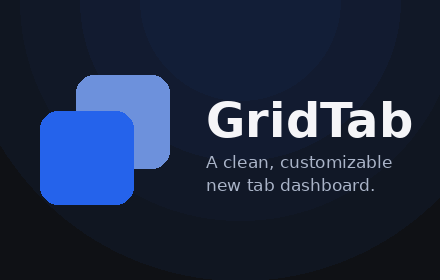
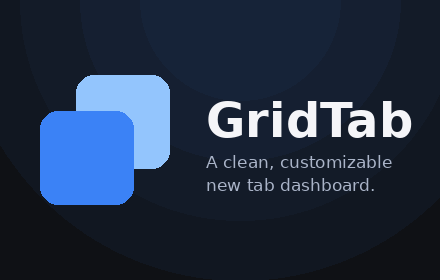
1.2.1: Remove engine picker, use chrome.search API for compliance with Red Argon policy

Changed region(s): [[0.0886, 0.2571, 0.3841, 0.7429]]

diff --git a/newtab.js b/newtab.js
@@ -11,6 +11,9 @@
   const SETTINGS_KEY = 'settings';
 
   // Default settings. Each maps to one or more CSS variables on :root.
+  // Default settings. Search uses the user's Chrome default search
+  // engine via the chrome.search API — there is no engine choice
+  // persisted in our settings, by design.
   const DEFAULT_SETTINGS = {
     tileSize: 'md',     // sm | md | lg
     gap:      'normal', // tight | normal | relaxed
@@ -22,7 +25,6 @@
     // reintroduce a paywall later by flipping this to false and wiring
     // up real billing. For v1 launch: everyone gets everything.
     isPro: true,
-    searchEngine: 'google', // see SEARCH_ENGINES below
   };
 
   /**
@@ -141,65 +143,6 @@
     { id: 'lightPurple',name: 'Light Purple',bg: '#c4b5fd', hover: '#b3a0fc' },
   ];
 
-  /**
-   * Search engine registry. Each engine has a URL template with {q} as
-   * the placeholder for the URL-encoded query, plus an inline SVG icon
-   * (so we don't depend on external favicon services for the chrome).
-   *
-   * Icons are simplified single-color or two-color marks based on each
-   * brand's identity guidelines. They render at ~20px in the UI; subtle
-   * detail at that size is wasted, so simpler is better.
-   */
-  const SEARCH_ENGINES = [
-    {
-      id: 'google', name: 'Google',
-      url: 'https://www.google.com/search?q={q}',
-      // Google's classic 4-color "G" mark.
-      icon: `<svg viewBox="0 0 24 24" xmlns="http://www.w3.org/2000/svg"><path fill="#4285F4" d="M22.56 12.25c0-.78-.07-1.53-.2-2.25H12v4.26h5.92c-.26 1.37-1.04 2.53-2.21 3.31v2.77h3.57c2.08-1.92 3.28-4.74 3.28-8.09z"/><path fill="#34A853" d="M12 23c2.97 0 5.46-.98 7.28-2.66l-3.57-2.77c-.98.66-2.23 1.06-3.71 1.06-2.86 0-5.29-1.93-6.16-4.53H2.18v2.84C3.99 20.53 7.7 23 12 23z"/><path fill="#FBBC05" d="M5.84 14.09c-.22-.66-.35-1.36-.35-2.09s.13-1.43.35-2.09V7.07H2.18C1.43 8.55 1 10.22 1 12s.43 3.45 1.18 4.93l2.85-2.22.81-.62z"/><path fill="#EA4335" d="M12 5.38c1.62 0 3.06.56 4.21 1.64l3.15-3.15C17.45 2.09 14.97 1 12 1 7.7 1 3.99 3.47 2.18 7.07l3.66 2.84c.87-2.6 3.3-4.53 6.16-4.53z"/></svg>`,
-    },
-    {
-      id: 'bing', name: 'Bing',
-      url: 'https://www.bing.com/search?q={q}',
-      // Microsoft Bing's stylized B mark.
-      icon: `<svg viewBox="0 0 24 24" xmlns="http://www.w3.org/2000/svg"><defs><linearGradient id="bg" x1="0" y1="0" x2="1" y2="1"><stop offset="0" stop-color="#37C2B1"/><stop offset=".5" stop-color="#0EA5C7"/><stop offset="1" stop-color="#0078D4"/></linearGradient></defs><path fill="url(#bg)" d="M5 2v15.5l4.5-1.7 4.7 2.4L9 21V19l-4-1.5V2zm0 0 4.5 1.7v9l4.7 1.7 4-1.7L5 22V11.5l-4.5-1.7z" transform="translate(2 0)"/></svg>`,
-    },
-    {
-      id: 'duckduckgo', name: 'DuckDuckGo',
-      url: 'https://duckduckgo.com/?q={q}',
-      // DDG's orange duck mark — simplified.
-      icon: `<svg viewBox="0 0 24 24" xmlns="http://www.w3.org/2000/svg"><circle cx="12" cy="12" r="11" fill="#DE5833"/><path fill="#fff" d="M14.5 6.8c-1 .5-1.5 1.2-1.5 2.5 0 2 2 2.5 2 4.5 0 2.5-2 3-2 6h-3l.5-3.5c-1.5-.5-3-1.5-3.5-3.5 0-1 .5-1.5 1-1.5l-1-1c0-1 1.5-1.5 3-1.5 2.5 0 3.5.5 4.5-2z"/><circle cx="14.5" cy="9.8" r="1.1" fill="#fff"/><circle cx="14.5" cy="9.8" r=".5" fill="#000"/></svg>`,
-    },
-    {
-      id: 'brave', name: 'Brave Search',
-      url: 'https://search.brave.com/search?q={q}',
-      // Brave's lion-shield silhouette — simplified to the orange shield form.
-      icon: `<svg viewBox="0 0 24 24" xmlns="http://www.w3.org/2000/svg"><path fill="#FB542B" d="M21 6.5 19.5 4l-3 .5L12 2 7.5 4.5 4.5 4 3 6.5l1.5 3-.5 4.5 1.5 5L12 22l6.5-3 1.5-5-.5-4.5z"/><path fill="#fff" d="M12 7.5 9 9.5l1.5 3-2 2 3.5 3.5 3.5-3.5-2-2 1.5-3z" opacity=".9"/></svg>`,
-    },
-    {
-      id: 'ecosia', name: 'Ecosia',
-      url: 'https://www.ecosia.org/search?q={q}',
-      // Ecosia's leaf-circle mark.
-      icon: `<svg viewBox="0 0 24 24" xmlns="http://www.w3.org/2000/svg"><circle cx="12" cy="12" r="11" fill="#36A86E"/><path fill="#fff" d="M6.5 14.5c2 2 6 2 9 0-1-.5-2-.5-3.5-.5l-1.5-1.5c0-1.5.5-2.5 1.5-3.5 1.5 0 2.5 0 3.5-.5-3-2-7-2-9 0-1.5 2-1.5 4 0 6z"/></svg>`,
-    },
-    {
-      id: 'kagi', name: 'Kagi',
-      url: 'https://kagi.com/search?q={q}',
-      // Kagi's yellow circle with stylized K.
-      icon: `<svg viewBox="0 0 24 24" xmlns="http://www.w3.org/2000/svg"><circle cx="12" cy="12" r="11" fill="#FFB319"/><path fill="#1a1a1a" d="M8 7h2v4l4-4h2.5l-4.5 4.5L17 17h-2.5L11 13v4H8z"/></svg>`,
-    },
-    {
-      id: 'perplexity', name: 'Perplexity',
-      url: 'https://www.perplexity.ai/?q={q}',
-      // Perplexity's stylized "?" / network mark.
-      icon: `<svg viewBox="0 0 24 24" xmlns="http://www.w3.org/2000/svg"><rect width="24" height="24" rx="5" fill="#1F1F1F"/><path fill="#20B8A6" d="M12 4 4 9v6l8 5 8-5V9zm0 2 5 3-5 3-5-3zm-6 5 5 3v5l-5-3zm12 0v5l-5 3v-5z"/></svg>`,
-    },
-    {
-      id: 'youtube', name: 'YouTube',
-      url: 'https://www.youtube.com/results?search_query={q}',
-      // YouTube's red "play button" rounded rectangle.
-      icon: `<svg viewBox="0 0 24 24" xmlns="http://www.w3.org/2000/svg"><path fill="#FF0000" d="M23.5 6.2c-.3-1-1-1.8-2-2.1C19.6 3.5 12 3.5 12 3.5s-7.6 0-9.5.6c-1 .3-1.7 1.1-2 2.1C0 8.1 0 12 0 12s0 3.9.5 5.8c.3 1 1 1.8 2 2.1 1.9.6 9.5.6 9.5.6s7.6 0 9.5-.6c1-.3 1.7-1.1 2-2.1.5-1.9.5-5.8.5-5.8s0-3.9-.5-5.8z"/><path fill="#fff" d="M9.6 15.6V8.4l6.3 3.6z"/></svg>`,
-    },
-  ];
 
   // Maps each setting value to the CSS variable values it should produce.
   // Keeping this here (not in CSS) lets us validate stored values and fall
@@ -248,12 +191,9 @@
   const colorMenuGrid  = document.getElementById('colorMenuGrid');
   // Theme picker.
   const themeGrid      = document.getElementById('themeGrid');
-  // Search bar + engine popover.
+  // Search bar.
   const searchForm     = document.getElementById('searchForm');
   const searchInput    = document.getElementById('searchInput');
-  const engineBtn      = document.getElementById('engineBtn');
-  const engineIcon     = document.getElementById('engineIcon');
-  const enginePopover  = document.getElementById('enginePopover');
   // Custom icon uploader (in the favorite edit modal).
   const iconPreview    = document.getElementById('iconPreview');
   const iconFileInput  = document.getElementById('iconFileInput');
@@ -600,82 +540,29 @@
   // Search bar
   // -----------------------------------------------------------------------
 
-  function getCurrentEngine() {
-    return SEARCH_ENGINES.find((e) => e.id === settings.searchEngine)
-        || SEARCH_ENGINES[0];
-  }
-
-  /** Render the engine icon inside the search-bar's left button. */
-  function renderEngineButton() {
-    const engine = getCurrentEngine();
-    engineIcon.innerHTML = engine.icon;
-    engineBtn.title = `Search with ${engine.name}`;
-    searchInput.placeholder = `Search ${engine.name}…`;
-  }
-
-  /** Render the engine popover list. */
-  function renderEnginePopover() {
-    enginePopover.innerHTML = '';
-    for (const engine of SEARCH_ENGINES) {
-      const opt = document.createElement('button');
-      opt.type = 'button';
-      opt.className = 'engine-option';
-      opt.setAttribute('role', 'menuitemradio');
-      opt.setAttribute('aria-checked',
-        settings.searchEngine === engine.id ? 'true' : 'false');
-
-      const iconWrap = document.createElement('span');
-      iconWrap.className = 'engine-option-icon';
-      iconWrap.innerHTML = engine.icon;
-
-      const name = document.createElement('span');
-      name.className = 'engine-option-name';
-      name.textContent = engine.name;
-
-      opt.appendChild(iconWrap);
-      opt.appendChild(name);
-      opt.addEventListener('click', async () => {
-        if (settings.searchEngine !== engine.id) {
-          settings = { ...settings, searchEngine: engine.id };
-          renderEngineButton();
-          await saveSettings(settings);
-        }
-        closeEnginePopover();
-        searchInput.focus();
-      });
-      enginePopover.appendChild(opt);
-    }
-  }
-
-  function openEnginePopover() {
-    renderEnginePopover();
-    enginePopover.hidden = false;
-    engineBtn.setAttribute('aria-expanded', 'true');
-    setTimeout(() => document.addEventListener('click', outsideEnginePopover), 0);
-  }
-  function closeEnginePopover() {
-    enginePopover.hidden = true;
-    engineBtn.setAttribute('aria-expanded', 'false');
-    document.removeEventListener('click', outsideEnginePopover);
-  }
-  function outsideEnginePopover(e) {
-    if (!searchForm.contains(e.target)) closeEnginePopover();
-  }
-
-  engineBtn.addEventListener('click', (e) => {
-    e.stopPropagation();
-    if (enginePopover.hidden) openEnginePopover();
-    else closeEnginePopover();
-  });
-
-  // Submit: build the engine URL with the query and navigate.
+  /**
+   * Submit handler. Routes the typed query through Chrome's official
+   * Search API, which uses whatever default search engine the user has
+   * set in their browser settings. We don't pick the engine ourselves —
+   * doing so would violate the Web Store's single-purpose policy for
+   * extensions that override the New Tab page.
+   *
+   * The chrome.search.query() call handles URL encoding and navigation
+   * internally; we just hand it the raw text.
+   */
   searchForm.addEventListener('submit', (e) => {
     e.preventDefault();
     const query = searchInput.value.trim();
     if (!query) return;
-    const engine = getCurrentEngine();
-    const url = engine.url.replace('{q}', encodeURIComponent(query));
-    window.location.href = url;
+    if (typeof chrome !== 'undefined' && chrome.search && chrome.search.query) {
+      chrome.search.query({ text: query, disposition: 'CURRENT_TAB' });
+    } else {
+      // Fallback for environments where chrome.search isn't available
+      // (e.g., loading the page outside the extension context for
+      // testing). Plain Google search keeps the bar functional.
+      window.location.href =
+        'https://www.google.com/search?q=' + encodeURIComponent(query);
+    }
   });
 
   // -----------------------------------------------------------------------
@@ -2142,7 +2029,6 @@
   // Esc closes whichever modal/popover is open.
   document.addEventListener('keydown', (e) => {
     if (e.key !== 'Escape') return;
-    if (!enginePopover.hidden) { closeEnginePopover(); return; }
     if (!colorMenu.hidden) { closeColorMenu(); return; }
     if (!modal.hidden) closeModal();
     else if (!settingsModal.hidden) closeSettingsModal();
@@ -2160,7 +2046,7 @@
        target.isContentEditable);
     if (isTyping) return;
     if (!modal.hidden || !settingsModal.hidden) return;
-    if (!enginePopover.hidden || !colorMenu.hidden) return;
+    if (!colorMenu.hidden) return;
     e.preventDefault();
     searchInput.focus();
     searchInput.select();
@@ -2176,7 +2062,6 @@
     if (changes[SETTINGS_KEY]) {
       settings = { ...DEFAULT_SETTINGS, ...(changes[SETTINGS_KEY].newValue || {}) };
       applySettings(settings);
-      renderEngineButton();
     }
   });
 
@@ -2187,7 +2072,6 @@
   (async function init() {
     [favorites, settings] = await Promise.all([loadFavorites(), loadSettings()]);
     applySettings(settings);
-    renderEngineButton();
     render();
   })();
 })();

diff --git a/newtab.css b/newtab.css
@@ -958,35 +958,18 @@ button { font-family: inherit; cursor: pointer; }
   box-shadow: 0 0 0 3px rgba(37, 99, 235, 0.12);
 }
 
-.search-engine-btn {
+/* Static search icon on the left of the search bar. Decorative —
+   not interactive, just signals "this is a search input." */
+.search-icon {
   display: flex;
   align-items: center;
   justify-content: center;
   width: 40px;
   height: 40px;
-  background: transparent;
-  border: none;
-  border-radius: var(--radius-md) 0 0 var(--radius-md);
-  cursor: pointer;
   flex-shrink: 0;
-  padding: 0;
+  color: var(--text-subtle);
+  pointer-events: none;
 }
-.search-engine-btn:hover { background: var(--surface-hover); }
-.search-engine-btn:focus-visible {
-  outline: 2px solid var(--accent);
-  outline-offset: -2px;
-}
-
-/* Engine icon — a 20px square that holds whichever logo we render. */
-.search-engine-icon {
-  width: 20px;
-  height: 20px;
-  display: flex;
-  align-items: center;
-  justify-content: center;
-  /* Center any inline SVG. */
-}
-.search-engine-icon svg { width: 100%; height: 100%; }
 
 .search-input {
   flex: 1 1 auto;
@@ -1000,47 +983,6 @@ button { font-family: inherit; cursor: pointer; }
   color: var(--text);
 }
 .search-input::placeholder { color: var(--text-subtle); }
-
-/* Engine popover */
-.engine-popover {
-  position: absolute;
-  top: calc(100% + 6px);
-  left: 0;
-  background: var(--bg-elev);
-  border: 1px solid var(--border);
-  border-radius: var(--radius-md);
-  box-shadow: var(--shadow-lg);
-  padding: 4px;
-  z-index: 50;
-  min-width: 200px;
-  animation: pop .15s ease;
-}
-.engine-option {
-  display: flex;
-  align-items: center;
-  gap: 10px;
-  width: 100%;
-  padding: 8px 10px;
-  background: transparent;
-  border: none;
-  border-radius: 8px;
-  cursor: pointer;
-  font: inherit;
-  color: var(--text);
-  text-align: left;
-}
-.engine-option:hover { background: var(--surface-hover); }
-.engine-option[aria-checked="true"] { background: var(--surface-hover); }
-.engine-option-icon {
-  width: 20px;
-  height: 20px;
-  display: flex;
-  align-items: center;
-  justify-content: center;
-  flex-shrink: 0;
-}
-.engine-option-icon svg { width: 100%; height: 100%; }
-.engine-option-name { font-size: 14px; }
 
 /* On narrow viewports, hide the search placeholder text rather than the
    whole bar, but let the bar shrink. */

diff --git a/newtab.html b/newtab.html
@@ -13,14 +13,20 @@
            chosen engine on Enter. Engine selector on the left opens a
            popover with the other supported engines. -->
       <form id="searchForm" class="search" role="search" autocomplete="off">
-        <button id="engineBtn" type="button" class="search-engine-btn"
-                aria-label="Choose search engine" aria-haspopup="true"
-                aria-expanded="false">
-          <span id="engineIcon" class="search-engine-icon" aria-hidden="true"></span>
-        </button>
+        <span class="search-icon" aria-hidden="true">
+          <!-- Static magnifying-glass icon. The bar uses Chrome's
+               default search engine via chrome.search.query() — no
+               picker, no engine choice in our UI, per Web Store
+               policy on new-tab extensions. -->
+          <svg width="18" height="18" viewBox="0 0 24 24" fill="none"
+               stroke="currentColor" stroke-width="2" stroke-linecap="round"
+               stroke-linejoin="round">
+            <circle cx="11" cy="11" r="8"></circle>
+            <line x1="21" y1="21" x2="16.65" y2="16.65"></line>
+          </svg>
+        </span>
         <input id="searchInput" type="text" class="search-input"
-               placeholder="Search the web…" aria-label="Search the web" />
-        <div id="enginePopover" class="engine-popover" hidden role="menu"></div>
+               placeholder="Search the web" aria-label="Search the web" />
       </form>
 
       <div class="header-actions">